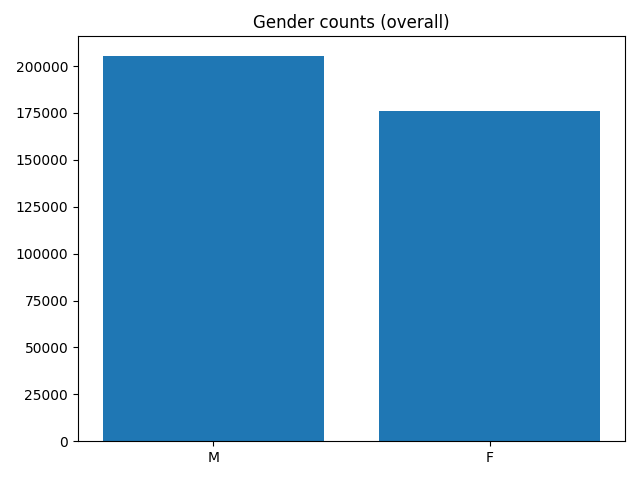
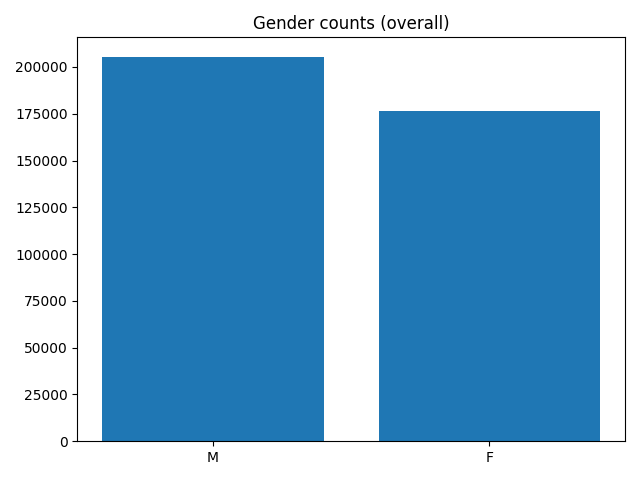
Sanity Check + Code review
Ran a sanity check following README.md guidance, found some errors and fixed them. Report sent on groupchat

diff --git a/scripts/export_dataset_jsonl.py b/scripts/export_dataset_jsonl.py
@@ -1,9 +1,11 @@
 import os
 import json
 import argparse
-from src.data.preprocessing import load_bios, BiosConfig
+import sys
+sys.path.append(os.path.abspath(os.path.join(os.path.dirname(__file__), '..')))
+from src.data.data import load_bios, BiosConfig
 
-def export_jsonl(output_dir="processed", top_n=20, mask_gender=False):
+def export_jsonl(output_dir=os.path.join("data", "processed"), top_n=20, mask_gender=False):
     os.makedirs(output_dir, exist_ok=True)
     
     # Optional parameters can be found in data.py, and use example can be found in make_dataset_stats.py
@@ -20,7 +22,7 @@ def export_jsonl(output_dir="processed", top_n=20, mask_gender=False):
         return
         
     # Load profession mapping
-    mapping_path = os.path.join(os.path.dirname(__file__), "profession_mapping.json")
+    mapping_path = os.path.join(os.path.dirname(__file__), "..", "data", "profession_mapping.json")
     with open(mapping_path, "r", encoding="utf-8") as fm:
         profession_mapping = json.load(fm)
 
@@ -49,7 +51,7 @@ def export_jsonl(output_dir="processed", top_n=20, mask_gender=False):
 
 if __name__ == "__main__":
     parser = argparse.ArgumentParser(description="Export HuggingFace DatasetDict to JSONL for Part 2 scripts.")
-    parser.add_argument("--output_dir", type=str, default="processed", help="Directory to save JSONL files")
+    parser.add_argument("--output_dir", type=str, default=os.path.join("data", "processed"), help="Directory to save JSONL files")
     parser.add_argument("--top_n", type=int, default=20, help="Number of top occupations to retain")
     parser.add_argument("--mask_gender", action="store_true", help="Whether to apply gender masking to text")
     

diff --git a/scripts/make_dataset_stats.py b/scripts/make_dataset_stats.py
@@ -1,12 +1,14 @@
 # make_dataset_stats.py
 import json
 import os
+import sys
 from collections import Counter, defaultdict
 from typing import Dict, Any
 
 import matplotlib.pyplot as plt
 
-from data import load_bios, BiosConfig
+sys.path.append(os.path.abspath(os.path.join(os.path.dirname(__file__), '..')))
+from src.data.data import load_bios, BiosConfig
 
 
 def _ensure_dir(path: str) -> None:
@@ -168,7 +170,7 @@ def plot_basic(stats: Dict[str, Any], out_dir: str, top_k: int = 20) -> None:
 
 
 def main():
-    out_dir = "outputs"
+    out_dir = os.path.join("data", "stats")
     _ensure_dir(out_dir)
 
     # You can edit these defaults:

diff --git a/src/data/data.py b/src/data/data.py
@@ -9,7 +9,7 @@ import json
 
 from datasets import load_dataset, Dataset, DatasetDict
 
-from masking import (
+from src.data.masking import (
     mask_gender_terms,
     mask_titles,
     mask_gendered_nouns,

diff --git a/README.md b/README.md
@@ -84,3 +84,20 @@ If you are using a Mac with Apple Silicon (M1/M2/M3 chips), PyTorch provides Met
 ```bash
 pip install torch torchvision torchaudio
 ```
+
+## Execution Guide
+
+### Part 1: Data Pipeline
+To export the dataset to JSONL format and compute statistics, run:
+```bash
+python scripts/export_dataset_jsonl.py
+python scripts/make_dataset_stats.py
+```
+This will produce outputs in `data/processed` and `data/stats`.
+
+### Part 2: Pythia Zero-shot / Few-shot Inference
+To generate predictions for Pythia evaluating on the text prompts, run:
+```bash
+bash scripts/run_pythia_zerofew.sh
+```
+The results will be securely serialized to `results/pythia`.
